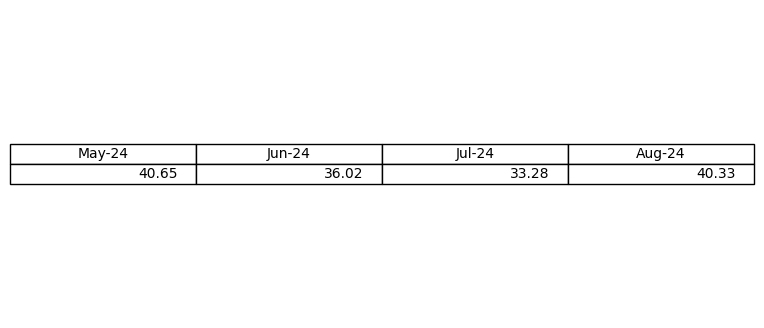
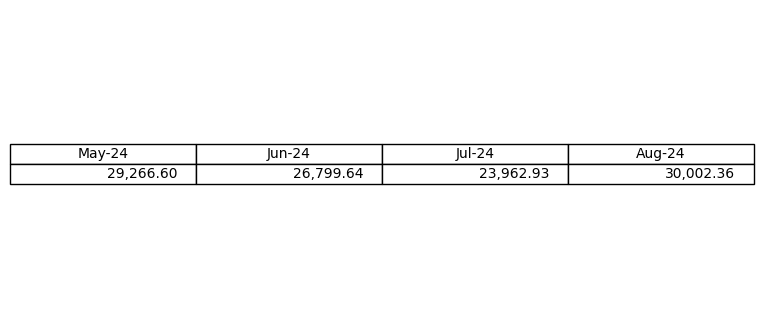
changeddd

diff --git a/utils.py b/utils.py
@@ -179,98 +179,46 @@ def plot_hourly_by_day_load_curve(hourly_by_day_summary, column_name='max', unit
 
   plt.show()
 
+def save_energy_consumption_plot(energy_summary, output_path):
+    import matplotlib.pyplot as plt
 
+    # Copy data to avoid SettingWithCopyWarning
+    energy_summary = energy_summary.copy()
+    
+    fig, ax1 = plt.subplots(figsize=(12, 6))
 
-def save_load_factor_table(energy_summary, output_path='load_factor_table.png'):
-    """
-    Generates a table for the monthly load factor and saves it as an image.
-
-    Parameters:
-    - energy_summary (pd.DataFrame): DataFrame with 'supply period' and 'load factor' columns.
-    - output_path (str): File path where the table image will be saved.
-    """
-    # Filter out rows labeled 'Total', 'Average', 'Max', or 'Min'
-    filtered_energy_summary = energy_summary[~energy_summary['supply period'].isin(['Total', 'Average', 'Max', 'Min'])]
-
-    # Select the relevant columns for months and load factor
-    months_load_factor = filtered_energy_summary[['supply period', 'load factor']]
-
-    # Transpose the DataFrame
-    transposed_table = months_load_factor.set_index('supply period').T
-
-    # Plotting the transposed table as an image
-    fig, ax = plt.subplots(figsize=(8, 4))  # Set figure size for the table
-    ax.axis('tight')
-    ax.axis('off')
-    table = ax.table(cellText=transposed_table.values, colLabels=transposed_table.columns, loc='center')
-    table.auto_set_font_size(False)
-    table.set_fontsize(10)
-    table.scale(1.2, 1.2)  # Scale the table for better visibility
-
-    # Save the table as an image
-    plt.savefig(output_path, bbox_inches='tight')
-    plt.close(fig)  # Close the plot to free up memory
-
-def save_energy_consumption_plot(energy_summary, output_path='energy_consumption_plot.png'):
-    # Filter out summary data that we don't want to include in the plot
-    monthly_data = energy_summary[~energy_summary['supply period'].isin(['Total', 'Average', 'Max', 'Min'])]
-
-    # Ensure 'kwh' and 'kw' columns are numeric (remove commas and convert to float)
-    # Use .loc to avoid SettingWithCopyWarning
-    monthly_data = monthly_data.copy()  # Create a copy to avoid SettingWithCopyWarning
-    monthly_data['kwh'] = monthly_data['kwh'].str.replace(',', '').astype(float)
-    monthly_data['kw'] = monthly_data['kw'].str.replace(',', '').astype(float)
-
-    # Find the highest values for setting axis limits
-    max_kwh = monthly_data['kwh'].max()
-    max_kw = monthly_data['kw'].max()
-
-    # Plotting
-    fig, ax1 = plt.subplots(figsize=(12, 7))
-
-    # Bar plot for 'kwh' with thinner bars
-    bar_width = 0.4
-    bars = ax1.bar(monthly_data['supply period'], monthly_data['kwh'], color='orange', label='kWh', width=bar_width)
-    ax1.set_xlabel('Supply Period (Month)')
-    ax1.set_ylabel('kWh', color='black')
-    ax1.tick_params(axis='y', labelcolor='black')
-
-    # Set kWh axis limits and ticks
-    ax1.set_ylim(0, max_kwh + 10000)
-    ax1.set_yticks(np.arange(0, max_kwh + 10000, 10000))
-
-    # Add labels at the center of each bar's height for kWh values
-    for bar in bars:
-        # Position the label at half the height of each bar
-        label_y_position = bar.get_height() / 2
-        ax1.text(
-            bar.get_x() + bar.get_width() / 2, label_y_position,
-            f'{bar.get_height():,.2f}', ha='center', va='center', color='black', fontsize=10
-        )
-
-    # Secondary y-axis for 'kw' with line plot and markers
+    # Plot kWh as a bar plot
+    ax1.bar(energy_summary.index, energy_summary['kwh'], color='skyblue', label='Energy (kWh)')
+    ax1.set_xlabel('Date')
+    ax1.set_ylabel('Energy (kWh)', color='skyblue')
+    ax1.tick_params(axis='y', labelcolor='skyblue')
+    
+    # Adding labels on the bars
+    for index, value in enumerate(energy_summary['kwh']):
+        ax1.text(index, value / 2, f'{value:.2f}', ha='center', color='black', fontweight='bold')
+    
+    # Plot kW as a line plot
     ax2 = ax1.twinx()
-    line, = ax2.plot(monthly_data['supply period'], monthly_data['kw'], color='green', marker='o', label='kW')
-    ax2.set_ylabel('kW', color='black')
-    ax2.tick_params(axis='y', labelcolor='black')
+    ax2.plot(energy_summary.index, energy_summary['kw'], color='orange', marker='o', linestyle='-', label='Demand (kW)')
+    ax2.set_ylabel('Demand (kW)', color='orange')
+    ax2.tick_params(axis='y', labelcolor='orange')
 
-    # Set kW axis limits and ticks
-    ax2.set_ylim(100, max_kw + 100)
-    ax2.set_yticks(np.arange(100, max_kw + 100, 100))
-
-    # Add labels to each point for kW values with one decimal place
-    for x, y in zip(monthly_data['supply period'], monthly_data['kw']):
-        ax2.text(x, y + 10, f'{y:,.2f}', ha='center', va='bottom', color='black', fontsize=10)
-
-    # Title and layout adjustments
-    plt.title('Monthly Energy Consumption (kWh) and Peak Demand (kW)')
+    # Adding labels on the kW data points
+    for index, value in enumerate(energy_summary['kw']):
+        ax2.text(index, value + 0.1, f'{value:.2f}', ha='center', color='orange', fontweight='bold')
+    
     fig.tight_layout()
 
-    # Handle the legends separately
-    lines1, labels1 = ax1.get_legend_handles_labels()  # Get handles and labels for the first axis
-    lines2, labels2 = ax2.get_legend_handles_labels()  # Get handles and labels for the second axis
-    ax1.legend(lines1 + lines2, labels1 + labels2, loc='upper left', bbox_to_anchor=(0.1, 0.95))  # Combine and place legend
+    # Correctly combine legend handles and labels
+    lines1, labels1 = ax1.get_legend_handles_labels()
+    lines2, labels2 = ax2.get_legend_handles_labels()
+    fig.legend(lines1 + lines2, labels1 + labels2, loc='upper left', bbox_to_anchor=(0.1, 0.95))
+    
+    # Save plot as an image
+    plt.savefig(output_path)
+    plt.close(fig)
+    
+    print(f"Energy consumption plot saved as {output_path}")
 
-    # Save the plot as an image
-    plt.savefig(output_path, bbox_inches='tight')
-    plt.close(fig)  # Close the plot to free up memory
+
+
